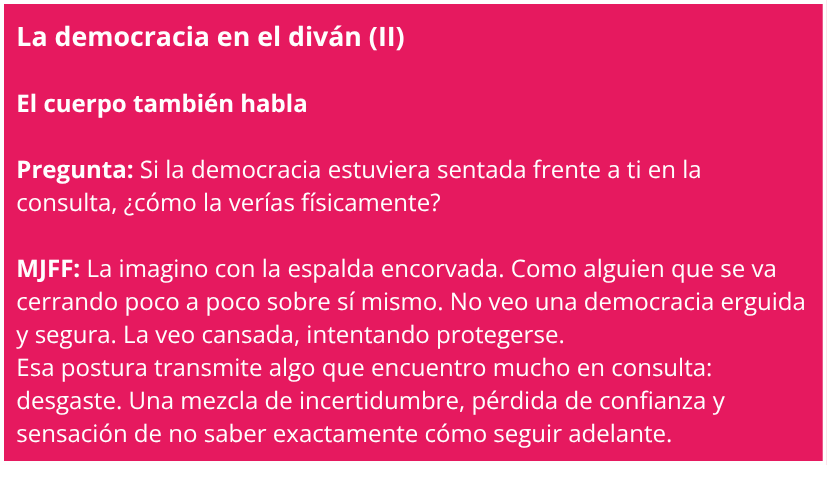
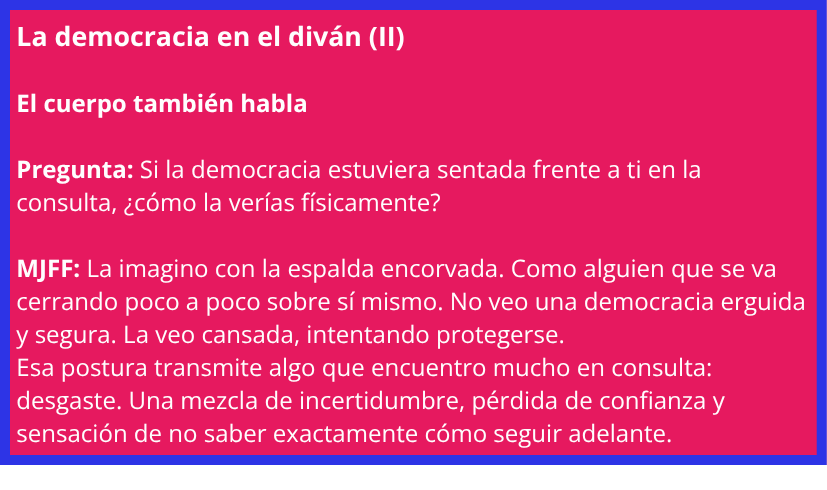
Update Artículo “masculinidades-conscientes”

Changed region(s): [[0.0, 0.0, 1.0, 0.949]]

diff --git a/_articles/es/masculinidades-conscientes.md b/_articles/es/masculinidades-conscientes.md
@@ -99,7 +99,7 @@ La experiencia demuestra que cuando aparecen espacios seguros, relaciones cálid
 
 Las mujeres han construido históricamente espacios de sororidad. Quizás nosotros necesitamos construir más fraternas: espacios donde la cercanía, el cuidado y la vulnerabilidad tengan legitimidad. Son esos espacios los que nos permiten, simbólicamente, desenchufar el frigorífico.
 
-{% gallery { "simple": true, "images": [{"path":"/media/captura-de-pantalla-2026-08-07-a-las-11.50.55.png"}] } %}
+{% gallery { "simple": true, "images": [{"path":"/media/captura-de-pantalla-2026-08-07-a-las-12.00.14.png"}] } %}
 
 ## **Diferencias generacionales, manosfera y jóvenes atrapados entre discursos**
 
